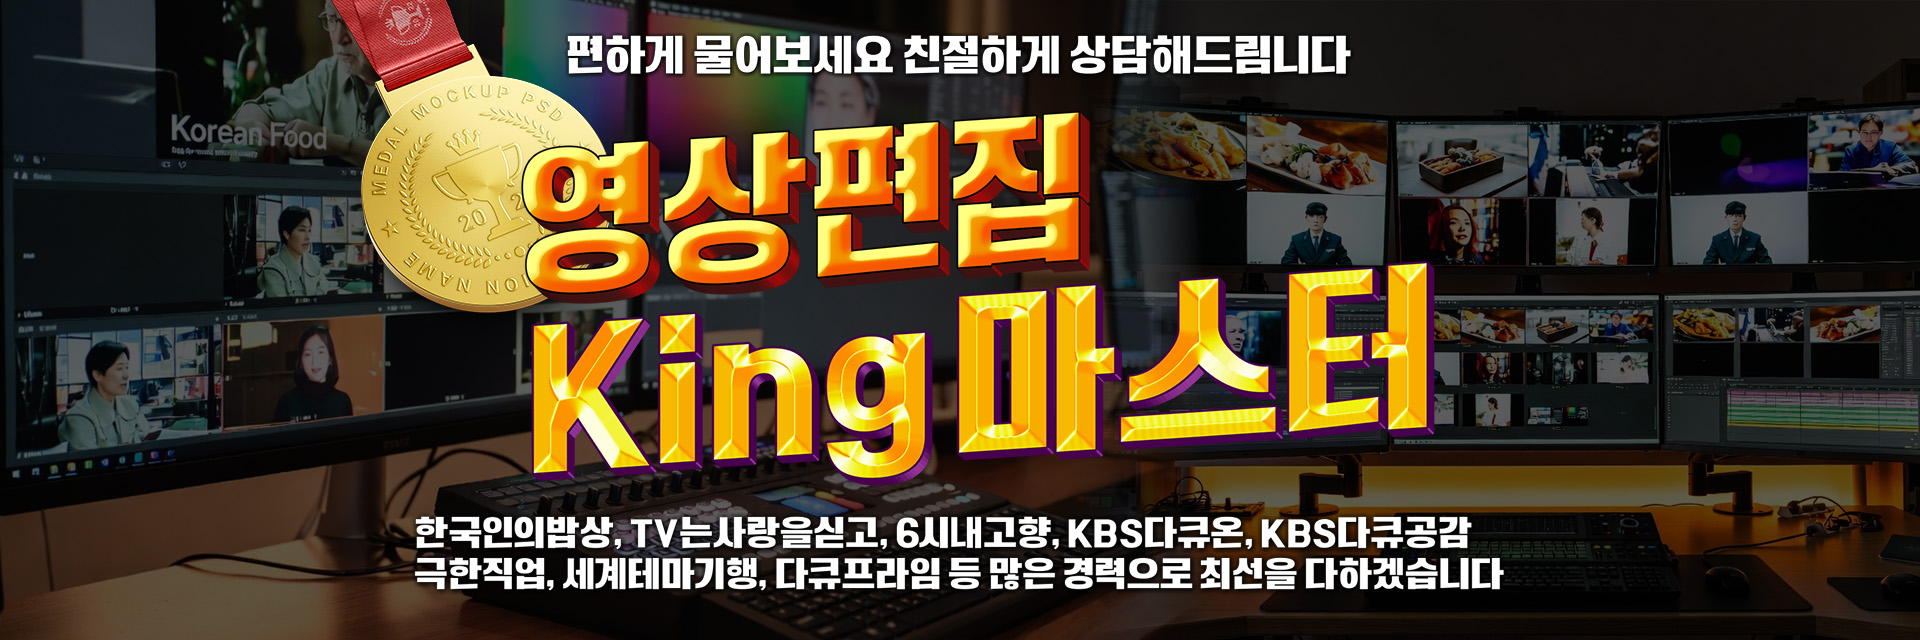
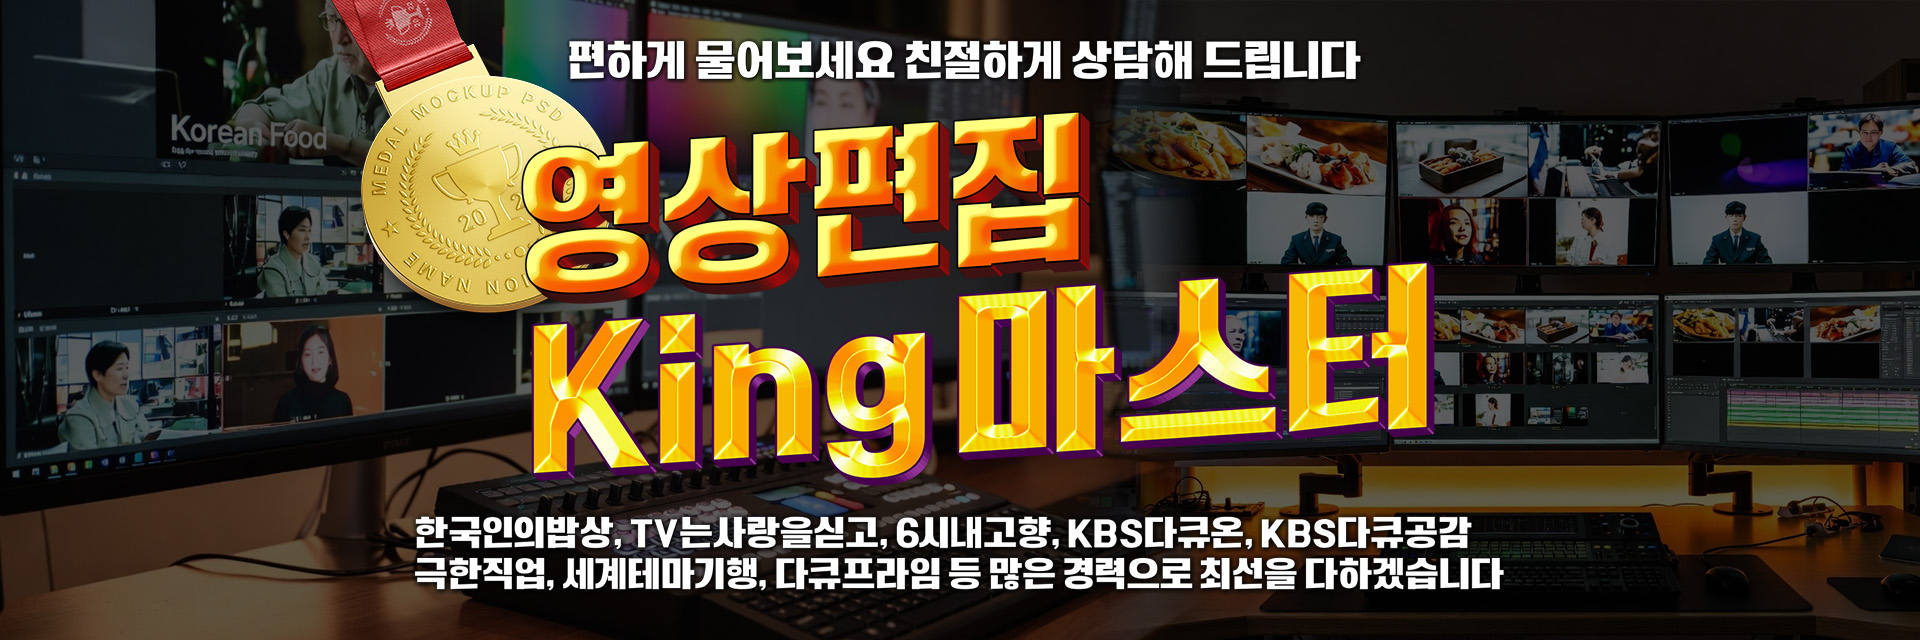
맨 위 사진 교체

Changed region(s): [[0.2812, 0.0312, 0.7188, 0.125]]

diff --git a/index.html b/index.html
@@ -86,7 +86,7 @@
         <a class="btn ghost" href="#work">작업 범위</a>
       </div>
       <figure>
-        <img src="king-master-wide.jpg" alt="영상편집 King 마스터. 편하게 물어보세요. 친절하게 상담해 드립니다." />
+        <img src="king-master-wide.jpg?v=3" alt="영상편집 King 마스터. 편하게 물어보세요. 친절하게 상담해 드립니다." />
         <figcaption>
           <p id="t-hello" style="font-weight:800;font-size:18px;margin:0 0 8px">편하게 물어보세요. 친절하게 상담해 드립니다.</p>
           <p class="muted" id="t-career" style="margin:0">한국인의 밥상, TV는 사랑을 싣고, 6시 내고향, KBS다큐온, KBS다큐공감, 극한직업, 세계테마기행, 다큐프라임 등 방송 경력으로 최선을 다하겠습니다.</p>
